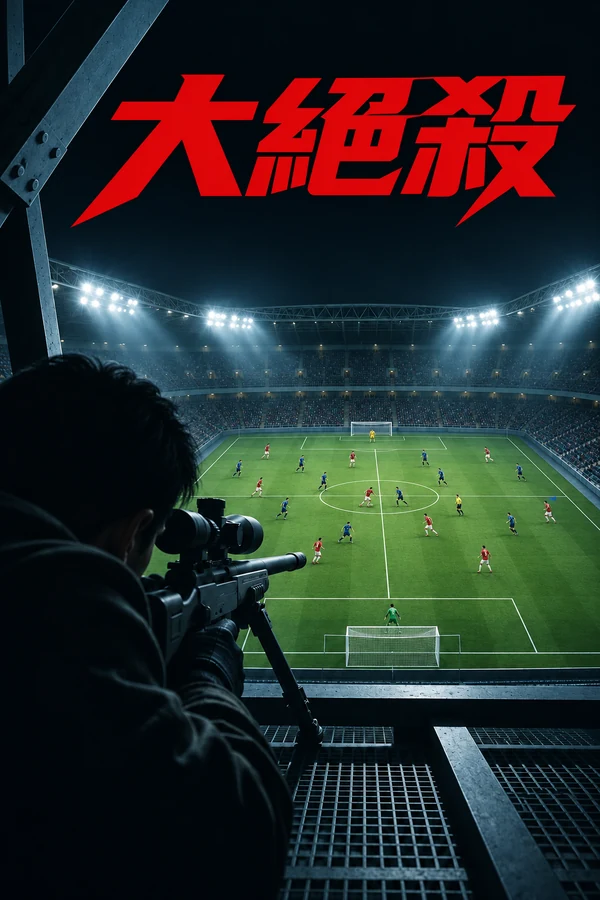
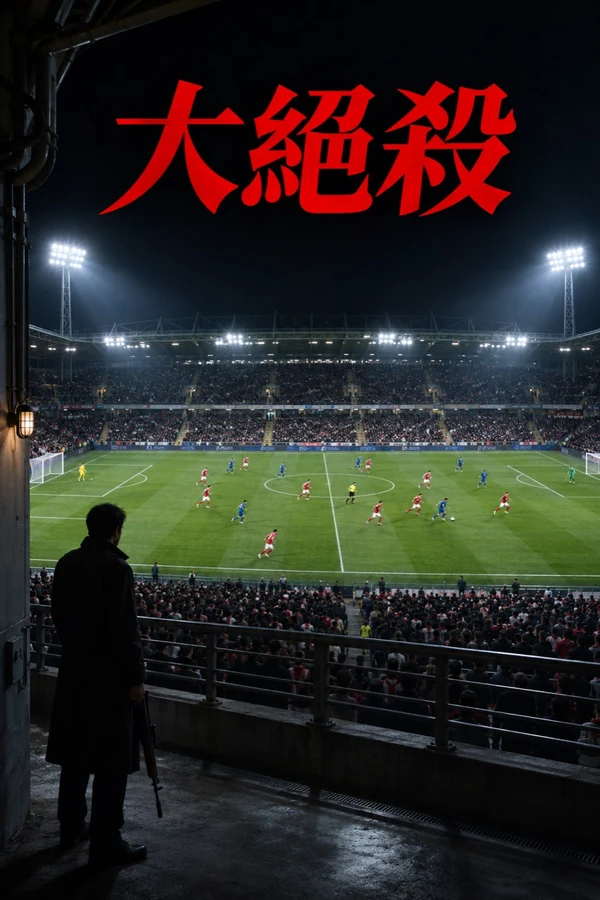
Update MV0062 with approved stadium poster

diff --git a/films.js b/films.js
@@ -1,7 +1,7 @@
 'use strict';
 (function(root) {
   const OLD_FILMS = [{id:'MV0001',title:'魔猴'},{id:'MV0002',title:'恐怖速食店'},{id:'MV0003',title:'酆都'}];
-  const POSTER_VERSIONS = {"MV0001": "c6bb028955b9", "MV0002": "c55e552e31bf", "MV0003": "d35e30859d3d", "MV0041": "153b0ad58900", "MV0042": "7f74b83c55ef", "MV0043": "38f12b4487e6", "MV0044": "ba99b7aef238", "MV0045": "4b97ba25203f", "MV0046": "54ad6d13d8d9", "MV0047": "85d4eb9e6e56", "MV0048": "fe91cace7a87", "MV0049": "d441592e34f6", "MV0050": "d55689439c02", "MV0053": "614f38aecd47", "MV0033": "ef506827e128", "MV0034": "179c2e56167d", "MV0035": "b96100efa45e", "MV0036": "58e3ab48c75d", "MV0051": "fb67b8111081", "MV0052": "8e4f2155f244", "MV0109": "c15c57e081b7", "MV0110": "a7caf130f67a", "MV0111": "2a8e57baf79a", "MV0112": "2908fb1f5101", "MV0113": "d17d2894da48", "MV0114": "587ef5457eb0", "MV0115": "430d80880762", "MV0116": "cd90add03791", "MV0117": "9eae1723b0d0", "MV0298": "b0fd875a1211", "MV0299": "c48c4aafa080", "MV0300": "d20becb61392", "MV0301": "0ac41c4a92d4", "MV0302": "52866996ba94", "MV0303": "cdeba2c4bd05", "MV0304": "ea8c99491b0d", "MV0305": "0f9bbaec9771", "MV0012": "1a51757c428e", "MV0013": "099b7066acef", "MV0014": "644ce81757a5", "MV0015": "09b6e3bf7a47", "MV0016": "8011b02e1529", "MV0007": "d1ac76373da8", "MV0008": "3a8309f0741a", "MV0009": "f81dccca20a0", "MV0010": "9ce36718b5cd", "MV0011": "447ed6b43a24", "MV0075": "9cb2651530d0", "MV0076": "81e78e351227", "MV0077": "c115302e195f", "MV0017": "7f669f4402bd", "MV0018": "7cf5422a2bb4", "MV0019": "898100580fa2", "MV0020": "dc3f865f0ec2", "MV0021": "67ea283ccee9", "MV0022": "6bbdc74fe0d1", "MV0078": "b1bb39728433", "MV0083": "f820a14fb473", "MV0084": "69c9a85d8185", "MV0079": "3655ad5e59e5", "MV0080": "17ec95f8f4c6", "MV0081": "110dbcae4d64", "MV0082": "a008347a5cff", "MV0085": "c4c9394f1b85", "MV0086": "28f05ec89749", "MV0087": "35be1925f7a0", "MV0023": "3adc4565c8fd", "MV0024": "528c8f6113ee", "MV0029": "a2cef7a3e46f", "MV0030": "3d8526b51e55", "MV0037": "ab4f8f5491e2", "MV0038": "66dc08448e98", "MV0027": "0511585c09f0", "MV0028": "31c7f952902e", "MV0106": "f3be41784d9a", "MV0107": "c5201b2c1539", "MV0108": "cb298e5cd97d", "MV0097": "176912559e3f", "MV0098": "2f6e3638a2ac", "MV0099": "6ddf111c1d6a", "MV0100": "70cc310896e6", "MV0101": "bb0d8732f5d9", "MV0102": "e7f55c1809b4", "MV0103": "68e16b7bace5", "MV0104": "4a6f74c0d15f", "MV0105": "9653cadb7c95", "MV0088": "6b5e23ac1048", "MV0089": "2f627c7ca265", "MV0090": "02644716a62c", "MV0091": "ba1bcefa38e8", "MV0092": "5f1e9d12eada", "MV0093": "be70c4f61e07", "MV0094": "5c21971d67f9", "MV0178": "a91f5168f827", "MV0179": "31157354c3c5", "MV0180": "3fc2f320d01d", "MV0181": "59a4a44797a9", "MV0182": "1df7faaaa884", "MV0183": "bd8c593bb3e4", "MV0184": "d4c2fb6b3328", "MV0185": "80da5a90f89c", "MV0186": "a51b470a02b6", "MV0187": "e438185bd07e", "MV0188": "45bb504195b2", "MV0189": "9a8008f0aecf", "MV0190": "2edd507faffa", "MV0191": "5761133e19e4", "MV0025": "a4bf59685a79", "MV0026": "57a4622f1b1d", "MV0031": "2bc12a51c87e", "MV0032": "2519e2d7cdc7", "MV0039": "12addcffffa4", "MV0040": "bb3906f0a3e2", "MV0250": "e8434f6fddaf", "MV0251": "79bb411ccf19", "MV0252": "429953c9f43e", "MV0253": "7511a76e0b8f", "MV0254": "a9d73285bc93", "MV0255": "3d532b4d0585", "MV0256": "2afd3db6b56a", "MV0257": "0611ce6e60d6", "MV0258": "d7f311990eac", "MV0054": "355ce5206d3c", "MV0055": "d9a1250df09e", "MV0056": "3e1153333fe9", "MV0057": "e58cb043f08b", "MV0058": "e18f423feb82", "MV0059": "1550c15720f9", "MV0060": "392631fc577e", "MV0061": "83506b1f63e4", "MV0062": "dadca17dd494", "MV0063": "8b56c381669e", "MV0064": "792e5bad9f7b", "MV0065": "e7a9a6169889", "MV0066": "8845a67a1021", "MV0067": "b14a2cb398ca", "MV0068": "e40a2f5e68a6", "MV0069": "19f9baa12c91", "MV0070": "0ed2c5fadc38", "MV0071": "72426d376323", "MV0072": "4a6efbee8a2d", "MV0073": "29067eeb47d4", "MV0074": "5cca49e42e9c"};
+  const POSTER_VERSIONS = {"MV0001": "c6bb028955b9", "MV0002": "c55e552e31bf", "MV0003": "d35e30859d3d", "MV0041": "153b0ad58900", "MV0042": "7f74b83c55ef", "MV0043": "38f12b4487e6", "MV0044": "ba99b7aef238", "MV0045": "4b97ba25203f", "MV0046": "54ad6d13d8d9", "MV0047": "85d4eb9e6e56", "MV0048": "fe91cace7a87", "MV0049": "d441592e34f6", "MV0050": "d55689439c02", "MV0053": "614f38aecd47", "MV0033": "ef506827e128", "MV0034": "179c2e56167d", "MV0035": "b96100efa45e", "MV0036": "58e3ab48c75d", "MV0051": "fb67b8111081", "MV0052": "8e4f2155f244", "MV0109": "c15c57e081b7", "MV0110": "a7caf130f67a", "MV0111": "2a8e57baf79a", "MV0112": "2908fb1f5101", "MV0113": "d17d2894da48", "MV0114": "587ef5457eb0", "MV0115": "430d80880762", "MV0116": "cd90add03791", "MV0117": "9eae1723b0d0", "MV0298": "b0fd875a1211", "MV0299": "c48c4aafa080", "MV0300": "d20becb61392", "MV0301": "0ac41c4a92d4", "MV0302": "52866996ba94", "MV0303": "cdeba2c4bd05", "MV0304": "ea8c99491b0d", "MV0305": "0f9bbaec9771", "MV0012": "1a51757c428e", "MV0013": "099b7066acef", "MV0014": "644ce81757a5", "MV0015": "09b6e3bf7a47", "MV0016": "8011b02e1529", "MV0007": "d1ac76373da8", "MV0008": "3a8309f0741a", "MV0009": "f81dccca20a0", "MV0010": "9ce36718b5cd", "MV0011": "447ed6b43a24", "MV0075": "9cb2651530d0", "MV0076": "81e78e351227", "MV0077": "c115302e195f", "MV0017": "7f669f4402bd", "MV0018": "7cf5422a2bb4", "MV0019": "898100580fa2", "MV0020": "dc3f865f0ec2", "MV0021": "67ea283ccee9", "MV0022": "6bbdc74fe0d1", "MV0078": "b1bb39728433", "MV0083": "f820a14fb473", "MV0084": "69c9a85d8185", "MV0079": "3655ad5e59e5", "MV0080": "17ec95f8f4c6", "MV0081": "110dbcae4d64", "MV0082": "a008347a5cff", "MV0085": "c4c9394f1b85", "MV0086": "28f05ec89749", "MV0087": "35be1925f7a0", "MV0023": "3adc4565c8fd", "MV0024": "528c8f6113ee", "MV0029": "a2cef7a3e46f", "MV0030": "3d8526b51e55", "MV0037": "ab4f8f5491e2", "MV0038": "66dc08448e98", "MV0027": "0511585c09f0", "MV0028": "31c7f952902e", "MV0106": "f3be41784d9a", "MV0107": "c5201b2c1539", "MV0108": "cb298e5cd97d", "MV0097": "176912559e3f", "MV0098": "2f6e3638a2ac", "MV0099": "6ddf111c1d6a", "MV0100": "70cc310896e6", "MV0101": "bb0d8732f5d9", "MV0102": "e7f55c1809b4", "MV0103": "68e16b7bace5", "MV0104": "4a6f74c0d15f", "MV0105": "9653cadb7c95", "MV0088": "6b5e23ac1048", "MV0089": "2f627c7ca265", "MV0090": "02644716a62c", "MV0091": "ba1bcefa38e8", "MV0092": "5f1e9d12eada", "MV0093": "be70c4f61e07", "MV0094": "5c21971d67f9", "MV0178": "a91f5168f827", "MV0179": "31157354c3c5", "MV0180": "3fc2f320d01d", "MV0181": "59a4a44797a9", "MV0182": "1df7faaaa884", "MV0183": "bd8c593bb3e4", "MV0184": "d4c2fb6b3328", "MV0185": "80da5a90f89c", "MV0186": "a51b470a02b6", "MV0187": "e438185bd07e", "MV0188": "45bb504195b2", "MV0189": "9a8008f0aecf", "MV0190": "2edd507faffa", "MV0191": "5761133e19e4", "MV0025": "a4bf59685a79", "MV0026": "57a4622f1b1d", "MV0031": "2bc12a51c87e", "MV0032": "2519e2d7cdc7", "MV0039": "12addcffffa4", "MV0040": "bb3906f0a3e2", "MV0250": "e8434f6fddaf", "MV0251": "79bb411ccf19", "MV0252": "429953c9f43e", "MV0253": "7511a76e0b8f", "MV0254": "a9d73285bc93", "MV0255": "3d532b4d0585", "MV0256": "2afd3db6b56a", "MV0257": "0611ce6e60d6", "MV0258": "d7f311990eac", "MV0054": "355ce5206d3c", "MV0055": "d9a1250df09e", "MV0056": "3e1153333fe9", "MV0057": "e58cb043f08b", "MV0058": "e18f423feb82", "MV0059": "1550c15720f9", "MV0060": "392631fc577e", "MV0061": "83506b1f63e4", "MV0062": "1c26e3480bbd", "MV0063": "8b56c381669e", "MV0064": "792e5bad9f7b", "MV0065": "e7a9a6169889", "MV0066": "8845a67a1021", "MV0067": "b14a2cb398ca", "MV0068": "e40a2f5e68a6", "MV0069": "19f9baa12c91", "MV0070": "0ed2c5fadc38", "MV0071": "72426d376323", "MV0072": "4a6efbee8a2d", "MV0073": "29067eeb47d4", "MV0074": "5cca49e42e9c"};
   function screeningCapacity(screenCount,cinemaID='C01') {
     return root.CinemaMovieRules.screeningCapacity(screenCount,cinemaID);
   }

diff --git a/app.js b/app.js
@@ -37,7 +37,7 @@ function prepareGame(id) {
   for (const [href, as] of [
     [`game.html?cinema=${encodeURIComponent(id)}&fresh=1&v=entry-v39&run=${preparedRuns.get(id)}`, 'document'],
     ['game.css?v=904734b127bd', 'style'],
-    ['game-runtime.js?v=8ec72549a431', 'script'],
+    ['game-runtime.js?v=0e061f31d862', 'script'],
   ]) {
     const link = document.createElement('link');
     link.rel = as === 'document' ? 'prefetch' : 'preload';

diff --git a/index.html b/index.html
@@ -443,6 +443,6 @@ button:focus-visible { outline:3px solid white; outline-offset:4px; }
 <script src="autosave.js?v=676ca72692ac" defer></script>
 <script src="home-save.js?v=0e202c69f4bd" defer></script>
 <script src="data/cinemas.js?v=7c8faa953883" defer></script>
-<script src="app.js?v=497f2431f218" defer></script>
+<script src="app.js?v=e637513ecfa0" defer></script>
 </body>
 </html>

diff --git a/game.html b/game.html
@@ -5,7 +5,7 @@
 <meta name="viewport" content="width=device-width, initial-scale=1.0">
 <title>CineMan｜電影院營業中</title>
 <link rel="stylesheet" href="game.css?v=904734b127bd">
-<script src="game-runtime.js?v=8ec72549a431" defer></script>
+<script src="game-runtime.js?v=0e061f31d862" defer></script>
 </head>
 <body class="game-page page-entering">
 <header class="header">
